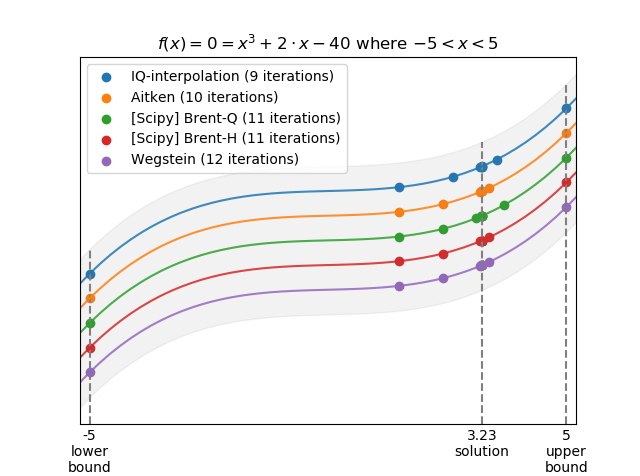
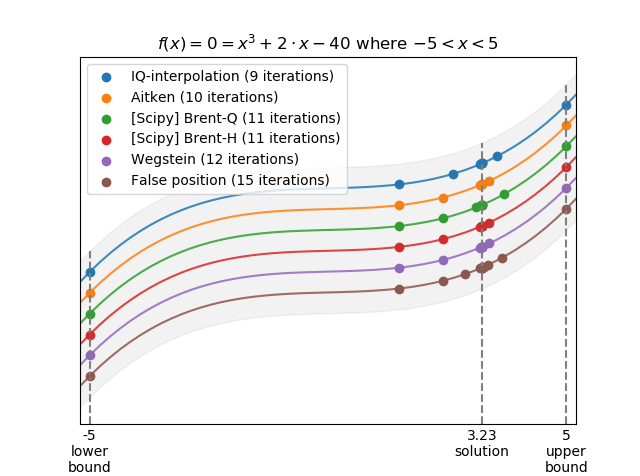
update

Changed region(s): [[0.125, 0.2059, 0.9062, 0.8235]]

diff --git a/README.rst b/README.rst
@@ -32,7 +32,7 @@ To get the git version, run:
 Documentation
 -------------
 
-Flexsolve includes the following solvers:
+Flexsolve solvers can solve a variety of specifications:
 
 * Solve x where f(x) = x:
 
@@ -100,7 +100,8 @@ help us relate the points to the curve (not an actual interval):
     >>> x_aitken = flx.bounded_aitken(p, x0, x1)
     3.2252404627883218
     >>> p.archive('Aitken')
-    >>> x_false_position = flx.false_position(p, x0, x1)
+    >>> flx.false_position(p, x0, x1)
+    3.225240462687035
     >>> p.archive('False position')
     >>> p.plot(r'$f(x) = 0 = x^3 + 2 \cdot x - 40$ where $-5 < x < 5$')
 
@@ -165,6 +166,12 @@ with and without compiling:
     >>> %timeit flx.IQ_interpolation(f, -5, 5)
     11.3 µs ± 156 ns per loop (mean ± std. dev. of 7 runs, 100000 loops each)
     
+The iterative methods for solving f(x) = x (e.g. fixed-point, Wegstain, Aitken) are 
+capable of solving multi-dimensional problems. Simply make sure x is an array 
+and f(x) returns an array with the same dimensions. In fact, the
+`The Biorefinery Simulation and Techno-Economic Analysis Modules (BioSTEAM) <https://biosteam.readthedocs.io/en/latest/>`_ 
+uses flexsolve to solve many chemical engineering problems, including 
+process recycle stream flow rates and vapor-liquid equilibrium compositions.
 
 Bug reports
 -----------
